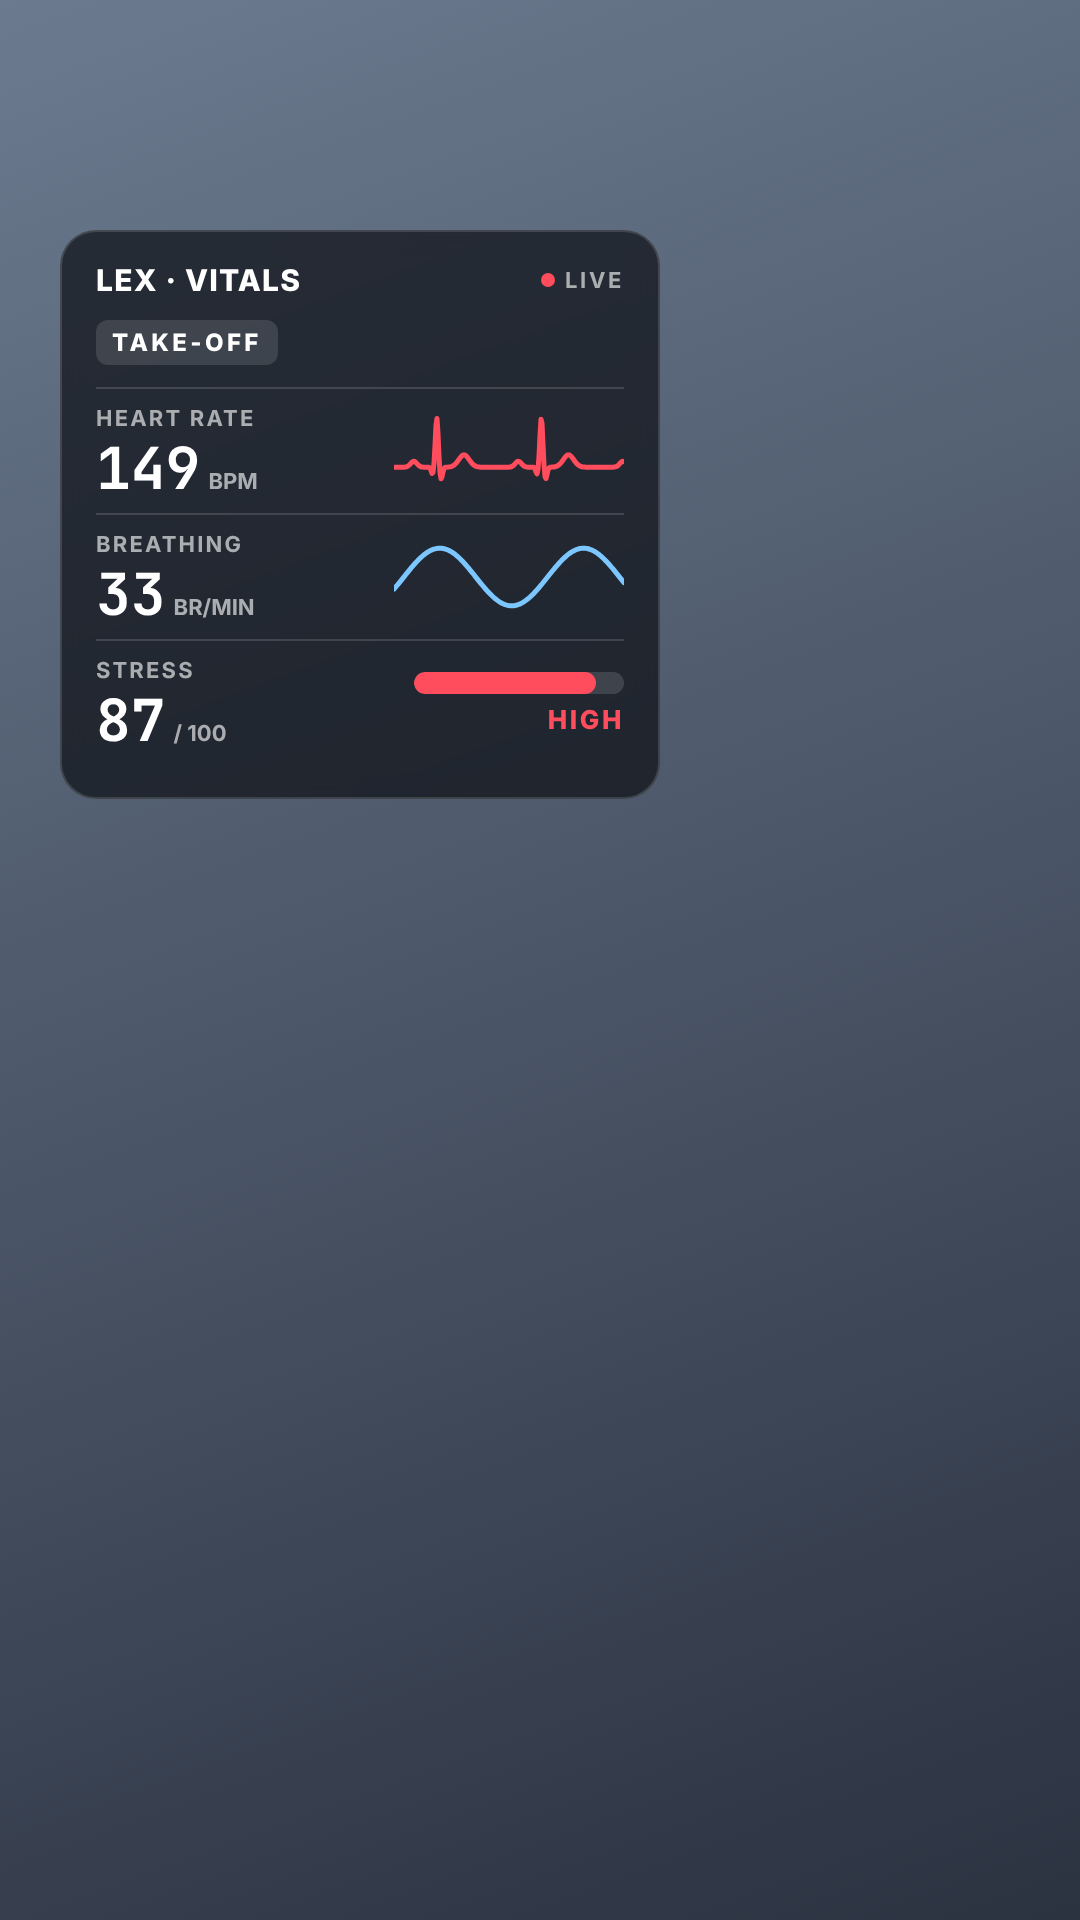
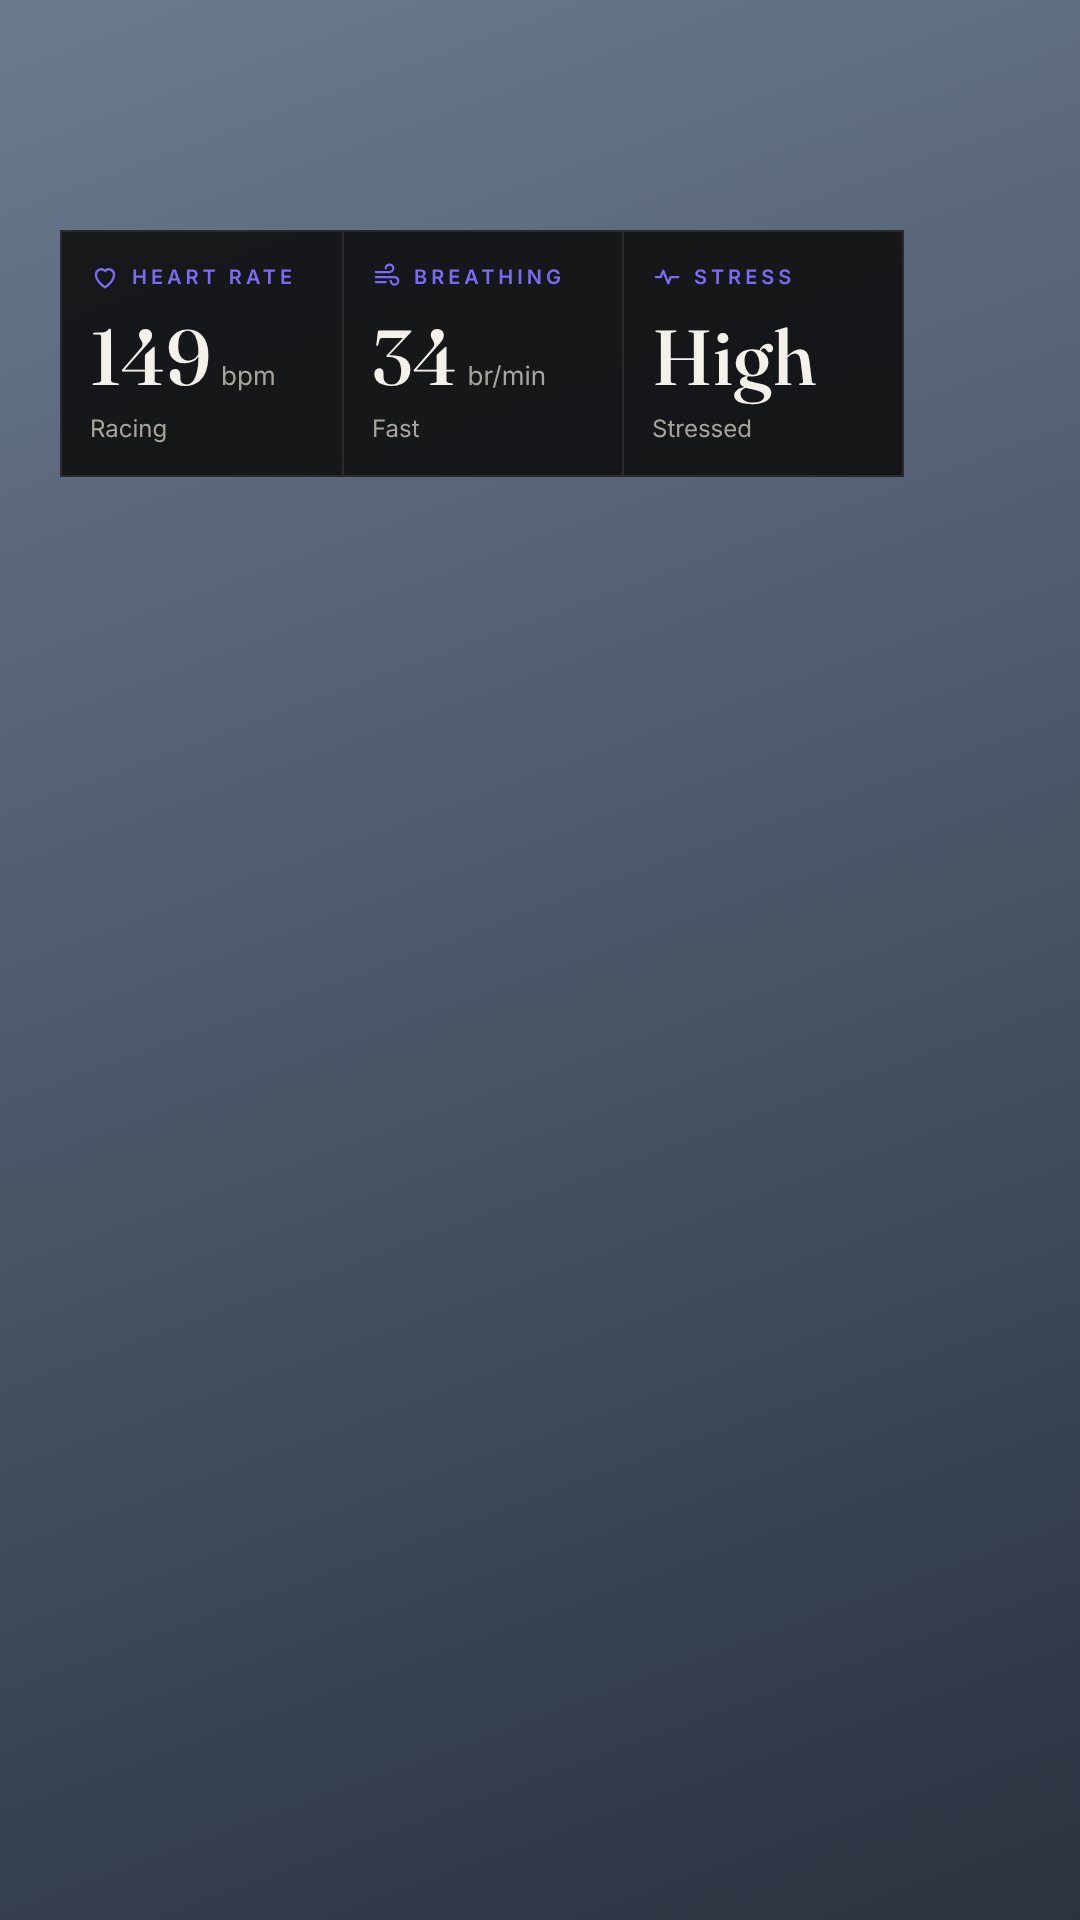
Simplify PetPace overlay to three tiles in site style
Claude-Session: https://claude.ai/code/session_01AJ1B8XtQzRVxMu9ZFn4sA4

Changed region(s): [[0.0306, 0.0938, 0.8556, 0.4375]]

diff --git a/petpace-overlay/overlay.html b/petpace-overlay/overlay.html
@@ -4,76 +4,57 @@
 <meta charset="utf-8">
 <title>Lex Vitals Overlay</title>
 <style>
-  @import url('https://fonts.googleapis.com/css2?family=Inter:wght@500;700;800&family=JetBrains+Mono:wght@700&display=swap');
+  @import url('https://fonts.googleapis.com/css2?family=Fraunces:opsz,wght@9..144,500&family=Inter:wght@400;600&display=swap');
   :root {
-    --card: rgba(14, 16, 22, 0.72);
-    --line: rgba(255, 255, 255, 0.14);
-    --text: #ffffff;
-    --muted: rgba(255, 255, 255, 0.62);
-    --low: #3ddc84;
-    --med: #ffb020;
-    --high: #ff4d5e;
+    --bg: rgba(11, 11, 11, 0.88);
+    --line: #2b2b2b;
+    --accent: #7b6cf6;
+    --text: #f4f1ea;
+    --muted: #a9a59c;
   }
   html, body { margin: 0; width: 1080px; height: 1920px; background: transparent; overflow: hidden; }
-  body.preview { background: #556 linear-gradient(160deg, #6b7a8f, #2b3240); }
-  #card {
-    position: absolute; left: 60px; top: 230px; width: 600px;
-    padding: 30px 34px 32px; box-sizing: border-box;
-    background: var(--card); border: 2px solid var(--line); border-radius: 36px;
+  body.preview { background: linear-gradient(160deg, #6b7a8f, #2b3240); }
+  #grid {
+    position: absolute; left: 60px; top: 230px; width: 840px;
+    display: grid; grid-template-columns: repeat(3, 1fr);
+    background: var(--bg); border: 2px solid var(--line);
     font-family: Inter, system-ui, sans-serif; color: var(--text);
-    backdrop-filter: blur(10px);
   }
-  .head { display: flex; align-items: center; justify-content: space-between; margin-bottom: 22px; }
-  .title { font-weight: 800; font-size: 30px; letter-spacing: 0.04em; }
-  .live { display: flex; align-items: center; gap: 10px; font-weight: 700; font-size: 22px; color: var(--muted); letter-spacing: 0.12em; }
-  .dot { width: 14px; height: 14px; border-radius: 50%; background: var(--high); }
-  .stage {
-    display: inline-block; font-weight: 800; font-size: 24px; letter-spacing: 0.14em;
-    padding: 8px 16px; border-radius: 12px; background: rgba(255,255,255,0.12); margin-bottom: 22px;
-  }
-  .row { display: grid; grid-template-columns: 1fr auto; align-items: center; padding: 16px 0; border-top: 2px solid var(--line); }
-  .label { font-weight: 700; font-size: 22px; color: var(--muted); letter-spacing: 0.1em; margin-bottom: 8px; }
-  .value { font-family: 'JetBrains Mono', monospace; font-weight: 700; font-size: 58px; line-height: 1; }
-  .unit { font-family: Inter, sans-serif; font-size: 22px; font-weight: 700; color: var(--muted); margin-left: 8px; }
-  canvas { display: block; }
-  .meter { width: 210px; height: 22px; border-radius: 11px; background: rgba(255,255,255,0.14); overflow: hidden; }
-  .fill { height: 100%; border-radius: 11px; }
-  .level { font-weight: 800; font-size: 26px; letter-spacing: 0.1em; text-align: right; margin-top: 10px; }
+  .tile { padding: 30px 28px 32px; border-left: 2px solid var(--line); }
+  .tile:first-child { border-left: 0; }
+  .label { display: flex; align-items: center; gap: 12px; color: var(--accent); font-weight: 600; font-size: 20px; letter-spacing: 0.2em; }
+  .label svg { width: 30px; height: 30px; flex: none; }
+  .num { margin-top: 26px; font-family: Fraunces, Georgia, serif; font-weight: 500; font-size: 78px; line-height: 1; }
+  .unit { font-family: Inter, sans-serif; font-size: 26px; color: var(--muted); margin-left: 10px; }
+  .sub { margin-top: 18px; font-size: 24px; color: var(--muted); }
+  #heart { transform-origin: center; }
 </style>
 </head>
 <body>
-<div id="card">
-  <div class="head">
-    <div class="title">LEX · VITALS</div>
-    <div class="live"><div class="dot" id="dot"></div>LIVE</div>
+<div id="grid">
+  <div class="tile">
+    <div class="label">
+      <svg id="heart" viewBox="0 0 24 24" fill="none" stroke="currentColor" stroke-width="1.8" stroke-linejoin="round"><path d="M12 20s-7-4.4-7-10a4 4 0 0 1 7-2.6A4 4 0 0 1 19 10c0 5.6-7 10-7 10z"/></svg>
+      HEART RATE
+    </div>
+    <div class="num"><span id="hr">--</span><span class="unit">bpm</span></div>
+    <div class="sub" id="hrSub">Resting range</div>
   </div>
-  <div class="stage" id="stage">CHECK-IN</div>
-
-  <div class="row">
-    <div>
-      <div class="label">HEART RATE</div>
-      <div><span class="value" id="hr">--</span><span class="unit">BPM</span></div>
+  <div class="tile">
+    <div class="label">
+      <svg viewBox="0 0 24 24" fill="none" stroke="currentColor" stroke-width="1.8" stroke-linecap="round"><path d="M3 8h11a3 3 0 1 0-3-3M3 12h15a3 3 0 1 1-3 3M3 16h8"/></svg>
+      BREATHING
     </div>
-    <canvas id="ecg" width="230" height="90"></canvas>
+    <div class="num"><span id="br">--</span><span class="unit">br/min</span></div>
+    <div class="sub" id="brSub">Calm &amp; steady</div>
   </div>
-
-  <div class="row">
-    <div>
-      <div class="label">BREATHING</div>
-      <div><span class="value" id="br">--</span><span class="unit">BR/MIN</span></div>
+  <div class="tile">
+    <div class="label">
+      <svg viewBox="0 0 24 24" fill="none" stroke="currentColor" stroke-width="1.8" stroke-linecap="round" stroke-linejoin="round"><path d="M3 12h4l2-5 4 10 2-5h6"/></svg>
+      STRESS
     </div>
-    <canvas id="lung" width="230" height="90"></canvas>
-  </div>
-
-  <div class="row">
-    <div>
-      <div class="label">STRESS</div>
-      <div><span class="value" id="st">--</span><span class="unit">/ 100</span></div>
-    </div>
-    <div>
-      <div class="meter"><div class="fill" id="fill"></div></div>
-      <div class="level" id="level">LOW</div>
-    </div>
+    <div class="num"><span id="st">--</span></div>
+    <div class="sub" id="stSub">Relaxed</div>
   </div>
 </div>
 
@@ -92,97 +73,39 @@ const FPS = 30;
 const TOTAL = STAGES.reduce((s, x) => s + x.seconds, 0);
 const ease = (x) => x < 0 ? 0 : x > 1 ? 1 : x * x * (3 - 2 * x);
 
-function stageAt(t) {
-  let start = 0;
-  for (let i = 0; i < STAGES.length; i++) {
-    if (t < start + STAGES[i].seconds || i === STAGES.length - 1) return { i, local: t - start };
-    start += STAGES[i].seconds;
-  }
-}
-
 function valuesAt(t) {
-  const { i, local } = stageAt(t);
+  let start = 0, i = 0;
+  while (i < STAGES.length - 1 && t >= start + STAGES[i].seconds) start += STAGES[i++].seconds;
   const cur = STAGES[i], prev = STAGES[Math.max(0, i - 1)];
-  const k = i === 0 ? 1 : ease(local / 1.0);
+  const k = i === 0 ? 1 : ease((t - start) / 1.0);
   const mix = (key) => prev[key] + (cur[key] - prev[key]) * k;
-  // small deterministic jitter so the numbers feel live
   const j = (f, a) => Math.sin(t * f) * a + Math.sin(t * f * 2.3 + 1) * a * 0.5;
-  return {
-    name: cur.name,
-    hr: mix('hr') + j(1.7, 2),
-    br: mix('br') + j(0.9, 0.8),
-    stress: Math.max(0, Math.min(100, mix('stress') + j(0.6, 2))),
-  };
+  return { hr: mix('hr') + j(1.7, 1.5), br: mix('br') + j(0.9, 0.6), stress: mix('stress') };
 }
 
-// integrate rate over time so the waveform speed follows the value smoothly
-function phase(t, key) {
-  const dt = 1 / FPS; let p = 0;
-  for (let s = 0; s < t; s += dt) p += (valuesAt(s)[key] / 60) * dt;
-  return p;
-}
+const band = (v, lo, hi, words) => words[v < lo ? 0 : v < hi ? 1 : 2];
 
-function levelOf(s) {
-  if (s < 35) return ['LOW', 'var(--low)'];
-  if (s < 65) return ['MEDIUM', 'var(--med)'];
-  return ['HIGH', 'var(--high)'];
-}
-
-function ecgShape(x) {
-  // one heartbeat cycle, x in [0,1)
-  const g = (c, w, a) => a * Math.exp(-((x - c) ** 2) / (2 * w * w));
-  return g(0.18, 0.03, 0.12) - g(0.36, 0.012, 0.15) + g(0.4, 0.014, 1) - g(0.44, 0.014, 0.25) + g(0.66, 0.05, 0.25);
-}
-
-function drawECG(t, hr, color) {
-  const c = document.getElementById('ecg'), ctx = c.getContext('2d');
-  ctx.clearRect(0, 0, c.width, c.height);
-  const p = phase(t, 'hr');
-  const beatsVisible = 2.2;
-  ctx.lineWidth = 5; ctx.lineJoin = 'round'; ctx.lineCap = 'round';
-  ctx.strokeStyle = color; ctx.beginPath();
-  for (let px = 0; px <= c.width; px++) {
-    const b = p - beatsVisible * (1 - px / c.width);
-    const x = ((b % 1) + 1) % 1;
-    const y = c.height * 0.68 - ecgShape(x) * c.height * 0.55;
-    px === 0 ? ctx.moveTo(px, y) : ctx.lineTo(px, y);
-  }
-  ctx.stroke();
-}
-
-function drawLung(t, color) {
-  const c = document.getElementById('lung'), ctx = c.getContext('2d');
-  ctx.clearRect(0, 0, c.width, c.height);
-  const p = phase(t, 'br');
-  ctx.lineWidth = 5; ctx.strokeStyle = color; ctx.lineCap = 'round'; ctx.beginPath();
-  for (let px = 0; px <= c.width; px++) {
-    const b = p - 1.6 * (1 - px / c.width);
-    const y = c.height / 2 - Math.sin(b * Math.PI * 2) * c.height * 0.32;
-    px === 0 ? ctx.moveTo(px, y) : ctx.lineTo(px, y);
-  }
-  ctx.stroke();
+// heart icon beats at the current heart rate
+function beatPhase(t) {
+  let p = 0;
+  for (let s = 0; s < t; s += 1 / FPS) p += (valuesAt(s).hr / 60) / FPS;
+  return p % 1;
 }
 
 function render(t) {
   const v = valuesAt(t);
-  const [lvl, color] = levelOf(v.stress);
-  const resolved = getComputedStyle(document.documentElement).getPropertyValue(color.slice(4, -1)).trim();
-  document.getElementById('stage').textContent = v.name;
   document.getElementById('hr').textContent = Math.round(v.hr);
   document.getElementById('br').textContent = Math.round(v.br);
-  document.getElementById('st').textContent = Math.round(v.stress);
-  document.getElementById('fill').style.width = v.stress + '%';
-  document.getElementById('fill').style.background = color;
-  document.getElementById('level').textContent = lvl;
-  document.getElementById('level').style.color = color;
-  document.getElementById('dot').style.opacity = (Math.floor(t * 2) % 2) ? 0.25 : 1;
-  drawECG(t, v.hr, resolved);
-  drawLung(t, '#7cc7ff');
+  document.getElementById('st').textContent = band(v.stress, 35, 65, ['Low', 'Medium', 'High']);
+  document.getElementById('hrSub').textContent = band(v.hr, 100, 130, ['Resting range', 'Elevated', 'Racing']);
+  document.getElementById('brSub').textContent = band(v.br, 22, 30, ['Calm & steady', 'Picking up', 'Fast']);
+  document.getElementById('stSub').textContent = band(v.stress, 35, 65, ['Relaxed', 'Alert', 'Stressed']);
+  const b = beatPhase(t);
+  document.getElementById('heart').style.transform = `scale(${1 + 0.18 * Math.exp(-b * 9)})`;
 }
 
 window.OVERLAY = { render, TOTAL, FPS };
 
-// live preview when opened directly in a browser
 if (!navigator.webdriver) {
   document.body.classList.add('preview');
   const t0 = performance.now();
